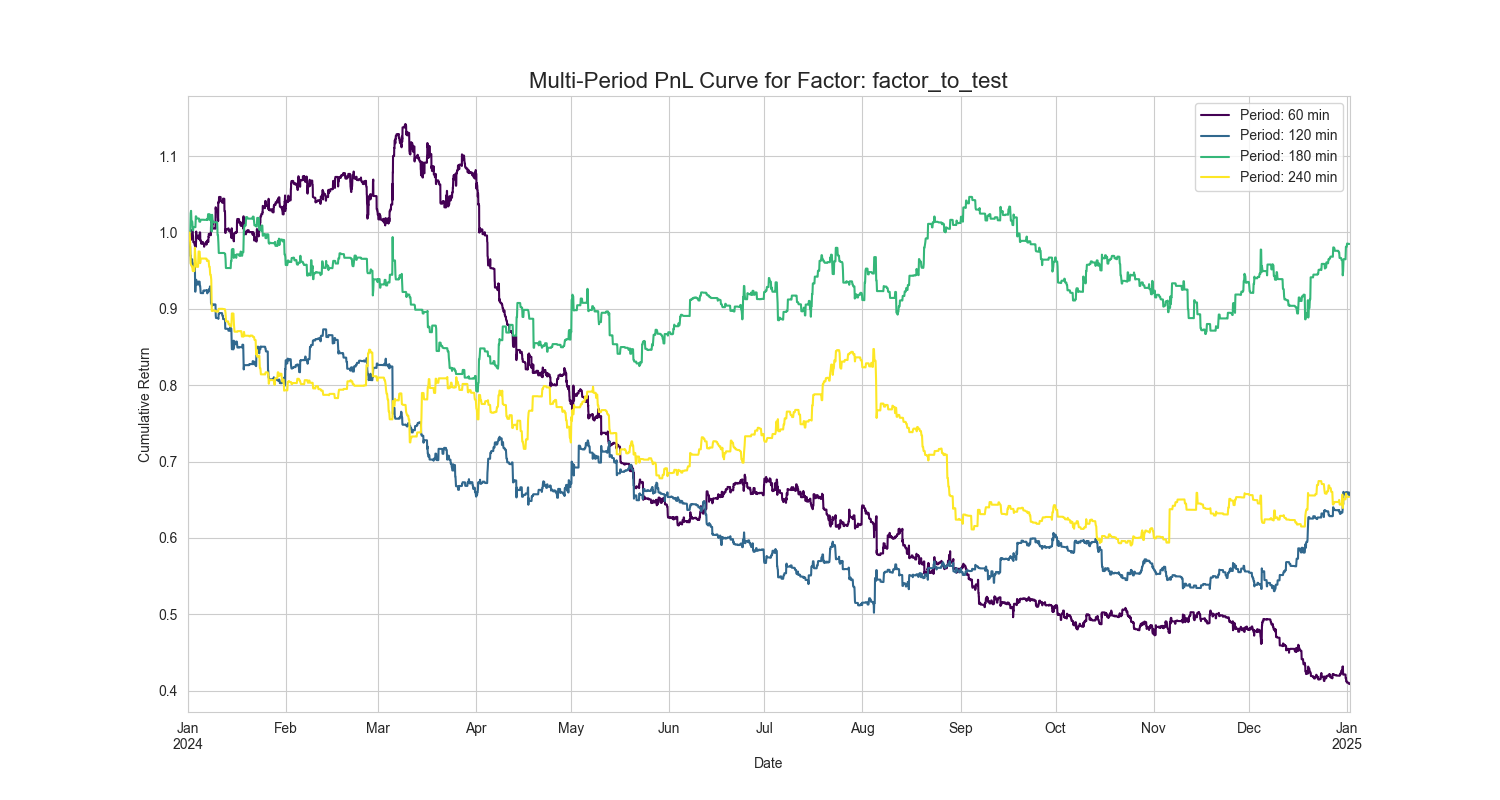
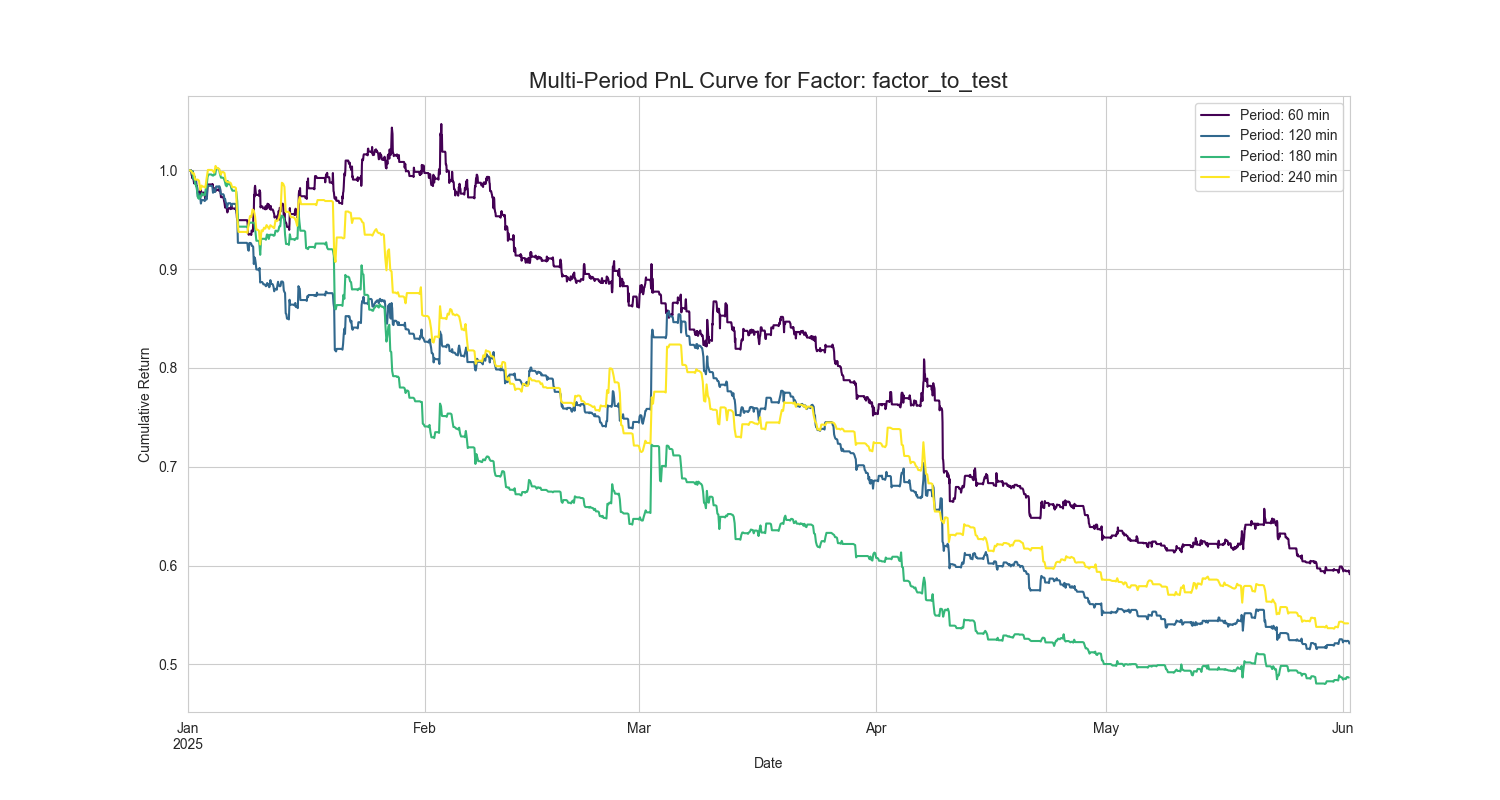
Backtest more metrics and more graph

diff --git a/run_factor_analysis.py b/run_factor_analysis.py
@@ -13,7 +13,7 @@ sns.set_style('whitegrid')
 from backtest.utils import load_data_in_period, load_factors_from_config
 from backtest.data_download import fetch_binance_klines_min
 
-def run_single_factor_analysis(df, factor_func, period_min, transaction_fee_bps=0, quantile_window=1440):
+def run_single_factor_analysis(df, factor_func, period_min, transaction_fee_bps=0, quantile_window=1440, long_quantile=0.10, short_quantile=0.90):
     """
     对单个因子函数运行深度分析，并返回结果和用于绘图的数据。
     :param df: 1分钟原始数据
@@ -36,12 +36,12 @@ def run_single_factor_analysis(df, factor_func, period_min, transaction_fee_bps=
     
     # 新增：基于滚动分位数的信号生成
     # 当因子值低于10%分位数时做多(信号为1)，高于90%分位数时做空(信号为-1)
-    df['q10'] = df['factor'].rolling(window=quantile_window, min_periods=quantile_window // 2).quantile(0.10)
-    df['q90'] = df['factor'].rolling(window=quantile_window, min_periods=quantile_window // 2).quantile(0.90)
+    df['q_low'] = df['factor'].rolling(window=quantile_window, min_periods=quantile_window // 2).quantile(long_quantile)
+    df['q_high'] = df['factor'].rolling(window=quantile_window, min_periods=quantile_window // 2).quantile(short_quantile)
     
     df['signal'] = 0.0
-    df.loc[df['factor'] <= df['q10'], 'signal'] = 1.0
-    df.loc[df['factor'] >= df['q90'], 'signal'] = -1.0
+    df.loc[df['factor'] <= df['q_low'], 'signal'] = 1.0
+    df.loc[df['factor'] >= df['q_high'], 'signal'] = -1.0
 
     # 4. 按换仓周期进行采样，只在换仓点进行分析
     # 使用resample确保我们只在每个周期的开始点（如整点）进行分析。
@@ -142,8 +142,6 @@ def plot_correlation_chart(correlation_series, factor_name, result_dir):
     save_path = os.path.join(result_dir, f'{factor_name}_correlation.png')
     plt.savefig(save_path)
     print(f"因子相关性图表已保存至: {save_path}")
-    plt.show()
-    plt.close()
 
 def plot_multi_period_pnl(pnl_data_by_period, factor_name, result_dir):
     """
@@ -171,9 +169,6 @@ def plot_multi_period_pnl(pnl_data_by_period, factor_name, result_dir):
     save_path = os.path.join(result_dir, f'{factor_name}_multi_period_pnl.png')
     plt.savefig(save_path)
     print(f"多周期 PnL 曲线图已保存至: {save_path}")
-
-    plt.show()  # 仍然在屏幕上显示图像
-    plt.close() # 关闭图像以释放内存，防止在循环中打开过多窗口
 
 def ensure_data_is_available(symbol, start_date_str, end_date_str, data_dir):
     """
@@ -216,13 +211,17 @@ def ensure_data_is_available(symbol, start_date_str, end_date_str, data_dir):
 # --- 因子原型开发区 (Factor Prototyping Area) ---
 # 在这里定义和测试您当前正在研究的新因子。
 def factor_to_test(df):
-    """一个示例因子，用于原型测试。该因子结合了价格方向和交易量。"""
-    direction = np.sign(df['close'].diff())
-    # 过去24分钟的方向性总和，乘以当前分钟的交易量
-    f = (direction).rolling(24).sum() * df['volume']
-    # 返回原始值，正值可能预示上涨，负值可能预示下跌
-    return f
-
+    volumes = df["volume"]
+    closes = df["close"]
+    opens = df['open']
+    lows = df["low"]
+    highs = df["high"]
+    trades = df["trades"]
+    n = 12 * 60
+ 
+    std_close = closes.rolling(120).std()
+    condition = std_close.where(closes > closes.shift(1), 0)
+    return condition.ewm(span=n, adjust=False).mean()
 
 if __name__ == '__main__':
     # ==============================================================================
@@ -231,12 +230,14 @@ if __name__ == '__main__':
     # 指定在原型区中要测试的因子函数
     FACTOR_TO_TEST = factor_to_test
     QUANTILE_WINDOW = 24 * 60    # 用于计算分位数信号的滚动窗口 (1440分钟 = 1天)
+    LONG_ENTRY_QUANTILE = 0.10   # 做多信号的因子值分位数阈值 (e.g., 0.10 for bottom 10%)
+    SHORT_ENTRY_QUANTILE = 0.90  # 做空信号的因子值分位数阈值 (e.g., 0.90 for top 10%)
 
     SYMBOL = 'BTCUSDT'
-    TRANSACTION_FEE_BPS = 2      # 用于计算净值夏普率的交易手续费（基点），设为0可以看得更清楚
+    TRANSACTION_FEE_BPS = 1     # 用于计算净值夏普率的交易手续费（基点），10个基点即0.1%
     REBALANCE_PERIODS_MIN = [60, 120, 180, 240] # 测试多个换仓周期
-    START_DATE = '2024-01-01'    # 回测开始日期
-    END_DATE = '2025-01-01'      # 回测结束日期 (包含当天)
+    START_DATE = '2025-01-01'    # 回测开始日期
+    END_DATE = '2025-06-01'      # 回测结束日期 (包含当天)
 
     # ==============================================================================
     # --- 2. 数据加载 ---
@@ -292,7 +293,8 @@ if __name__ == '__main__':
         for period in tqdm(REBALANCE_PERIODS_MIN, desc=f"Analyzing {FACTOR_TO_TEST.__name__}"):
             # 传入df.copy()确保每次分析都基于干净的原始数据
             analysis_results, detailed_df = run_single_factor_analysis(
-                df.copy(), FACTOR_TO_TEST, period, TRANSACTION_FEE_BPS, QUANTILE_WINDOW
+                df.copy(), FACTOR_TO_TEST, period, TRANSACTION_FEE_BPS, QUANTILE_WINDOW,
+                LONG_ENTRY_QUANTILE, SHORT_ENTRY_QUANTILE
             )
             all_results.append(analysis_results)
             pnl_data_for_plotting[period] = detailed_df
@@ -318,3 +320,7 @@ if __name__ == '__main__':
             plot_multi_period_pnl(pnl_data_for_plotting, FACTOR_TO_TEST.__name__, result_dir)
         else:
             print("错误：未能生成任何分析结果。")
+
+    # 在脚本末尾一次性显示所有已创建但未关闭的图表
+    print("\n分析完成。显示所有图表...")
+    plt.show()

diff --git a/backtest/factors.py b/backtest/factors.py
@@ -1,5 +1,33 @@
 import pandas as pd
 import numpy as np
 
-def factor_ma15(df):
+def factor_001(df):
     return - df['close'].rolling(window=15).mean()
+
+def factor_002(df):
+    log_vol = np.log(df['volume'])
+    gradient = log_vol.pct_change()
+    kurt = log_vol.rolling(30).kurt()
+    return kurt * gradient
+
+def factor_003(df):
+    low_diff = np.log(df['close']) - np.log(df['low']).rolling(120).min()
+    high_diff = np.log(df['high']).rolling(120).max() - np.log(df['close'])
+    z_low = (low_diff - low_diff.rolling(240).mean()) / low_diff.rolling(240).std()
+    z_high = (high_diff - high_diff.rolling(240).mean()) / high_diff.rolling(240).std()
+    return - z_low / z_high
+
+
+def factor_004(df):
+    vwap = (df['close'] * df['volume']).rolling(240).sum() / df['volume'].rolling(240).sum()
+    f = (vwap - df['close']) / df['close'].rolling(5).std()
+    return - f.rolling(48).mean()
+
+def factor_005(df):
+    f = df['volume'] / df['trades']
+    return f.pct_change().rolling(12 * 60).sum()
+
+def factro_006(df):
+    std_close = df['close'].rolling(120).std()
+    condition = std_close.where(df['close'] > df['close'].shift(1), 0)
+    return condition.ewm(span=12 * 60, adjust=False).mean()

diff --git a/backtest/backtest_engine.py b/backtest/backtest_engine.py
@@ -19,7 +19,10 @@ def run_backtest(df_with_signals, initial_capital, fee_bps, period_min):
         'close': 'first',
         'signal': 'first'
     }).dropna()
-
+    
+    # 强制每个周期开始时平仓：将上一个周期的信号置为0
+    backtest_df['signal'] = backtest_df['signal'].shift(1).fillna(0)
+    
     # 2. 计算每个持仓周期（小时级）的收益率
     backtest_df['ret'] = backtest_df['close'].pct_change()
     # 3. 计算策略收益率 (用上一个周期的信号，乘以当前周期的收益)
